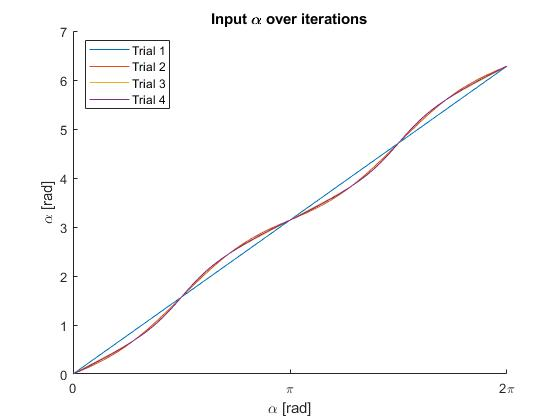
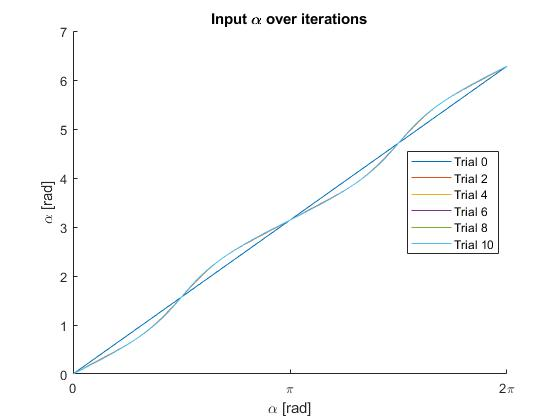
new figures

diff --git a/piezo_sim_first_trials_TimM/piezo_example.m b/piezo_sim_first_trials_TimM/piezo_example.m
@@ -22,7 +22,7 @@ clear
 % If not, how can you ensure good tracking performance on the experimental 
 % setup if the piezo behaves like case (b)? 
 
-use_monotone_function = true;
+use_monotone_function = false;
 
 
 %% Set Piezo parameters
@@ -35,7 +35,7 @@ end
 piezo_gain = 1e-7;
 
 % load("time_array.mat")
-Ntrials = 4;
+Ntrials = 11;
 %% Simulate Piezo
 % error = [out.error.Time zeros(4011,1)];
 % % Edit the simulink file to include your ILC/RC implementation
@@ -62,12 +62,15 @@ for N = 1:Ntrials
     error_dat = out.error.Data;
 %     error_dat( abs(error_dat) < 10^(-10)) = 10^(-8);
 %     f_jplus1_dat = f_j(:,2) - (1./error_dat)*piezo_gain;
-    f_jplus1_dat = f_j(:,2) - error_dat/piezo_gain;
+    f_jplus1_dat = f_j(:,2) - 0.5*error_dat/piezo_gain;
+%     f_jplus1_dat = f_j(:,2) - error_dat/piezo_gain;
     f_jplus1 = [time' f_jplus1_dat];
 
     f_j_save(:,N) = f_j(:,2);
     error_save(:,N) = error_dat;
     alpha_save(:,N) = out.alpha_mod.Data;
+    ref_save(:,N) = out.refout.Data;
+    y_save(:,N) = out.y.Data;
 end
 
 
@@ -77,11 +80,11 @@ alpha = 0:2*pi/1000:2*pi;
 close all;
 figure
 hold on
-for N = 1:Ntrials
+for N = 1:2:Ntrials
 plot(alpha,f_j_save(1:1001,N))
 end
 title('Feedforward signal \alpha over iterations')
-legend('Trial 1','Trial 2','Trial 3','Trial 4',Location='best')
+legend('Trial 0','Trial 2','Trial 4','Trial 6','Trial 8','Trial 10',Location='best')
 xlabel('\alpha [rad]')
 ylabel('Feedforward signal \alpha [rad]')
 xlim([0 2*pi])
@@ -91,11 +94,11 @@ xticklabels({'0', '\pi', '2\pi'})
 
 figure
 hold on
-for N = 1:Ntrials
+for N = 1:2:Ntrials
 plot(alpha,error_save(1:1001,N))
 end
 title('Error over iterations')
-legend('Trial 1','Trial 2','Trial 3','Trial 4',Location='best')
+legend('Trial 0','Trial 2','Trial 4','Trial 6','Trial 8','Trial 10',Location='best')
 xlabel('\alpha [rad]')
 ylabel('Error [m]')
 xlim([0 2*pi])
@@ -105,18 +108,18 @@ xticklabels({'0', '\pi', '2\pi'})
 
 figure
 hold on
-for N = 1:Ntrials
+for N = 1:2:Ntrials
 plot(error_save(1:1001,N).*10^7,'r')
 plot(f_j_save(1:1001,N),'k')
 end
 
 figure
 hold on
-for N = 1:Ntrials
+for N = 1:2:Ntrials
 plot(alpha,alpha_save(1:1001,N))
 end
 title('Input \alpha over iterations')
-legend('Trial 1','Trial 2','Trial 3','Trial 4',Location='best')
+legend('Trial 0','Trial 2','Trial 4','Trial 6','Trial 8','Trial 10',Location='best')
 xlabel('\alpha [rad]')
 ylabel('\alpha [rad]')
 xlim([0 2*pi])
@@ -125,7 +128,7 @@ xticklabels({'0', '\pi', '2\pi'})
 
 
 %% 
-figure(1); clf;
+figure
 subplot(2,1,1)
 plot(out.alpha_mod)
 ylim([0 2*pi])
@@ -136,6 +139,26 @@ grid on
 
 subplot(2,1,2)
 plot(out.y)
+title('Piezo position')
+ylabel('Position [m]')
+xlabel('Time [s]')
+grid on
+
+figure
+subplot(2,1,1)
+plot(alpha_save(:,1))
+hold on
+plot(alpha_save(:,N))
+ylim([0 2*pi])
+title('Commutation angle')
+ylabel('Alpha [rad]')
+xlabel('Time [s]')
+grid on
+
+subplot(2,1,2)
+plot(y_save(:,1))
+hold on
+plot(y_save(:,N))
 title('Piezo position')
 ylabel('Position [m]')
 xlabel('Time [s]')
